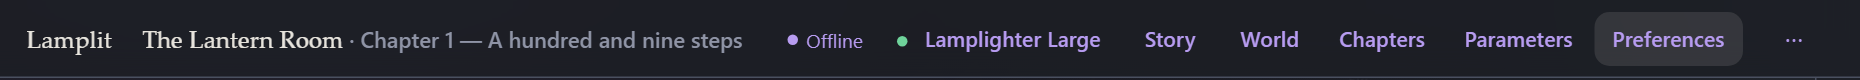
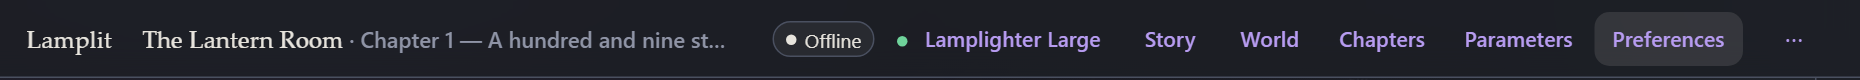
A status that does not read as a menu item, and a title that says it was cut
Offline was `--li-accent`: the colour of Story, World, Chapters, Parameters,
Preferences and the model name beside them, so the one thing on the bar saying
something is wrong looked like a seventh way in. It is a chip now — the ink the
rest of the app is written in, a box around it, a tint inside it — which is calm
the way the state is calm and a different kind of object from a row of text
buttons at a glance. Refused is the same chip in `--li-danger`, so the two states
that want something of the reader are one family and only the colour differs. The
third state, saving, keeps the border transparent, so nothing moves when one
becomes another.

A long title stopped mid-word rather than in an ellipsis, and the reason was two
layers deep. Material gives every button `flex-shrink: 0`, so `.here` kept its
full width whatever the bar had left and `.identity` clipped it with an
`overflow: hidden` that has no ellipsis to give. Letting the button shrink moves
the clipping inside it — and there Material's own `.mdc-button__label`, a flex
item with an automatic minimum width, cannot shrink either while the label will
not wrap. So the `text-overflow` two levels down never had a width to work
against.

`.li-truncates` is that span given a minimum of zero and the truncation itself:
the one place the app reaches into Material's button, because there is no token
for it. The model button wears it too — it caps at 15rem and had been clipping a
[…]

Changed region(s): [[0.3742, 0.425, 0.4677, 0.6], [0.4054, 0.675, 0.4677, 0.725], [0.4054, 0.25, 0.4677, 0.3]]

diff --git a/e2e/specs/top-bar.spec.ts b/e2e/specs/top-bar.spec.ts
@@ -1,0 +1,92 @@
+import { openPreferences } from './helpers';
+import { expect, test } from './fixtures';
+
+/**
+ * The bar when it runs out of room, and the one time it has something to say.
+ *
+ * Both of these are measurements rather than pictures. Whether a long title
+ * ends in an ellipsis or stops mid-word is a question of which element the
+ * overflow happens on, and whether the offline indicator reads as a status or
+ * as a seventh button is a question of what is drawn round it — so those are
+ * what is asked here, off the rendered page.
+ */
+
+/** The answer the server would give if 0.2.0 had been published. */
+const NEWER = {
+  ok: true,
+  enabled: true,
+  checked: true,
+  version: '0.0.0',
+  latest: null,
+  newer: [
+    {
+      tag: 'v0.2.0',
+      version: '0.2.0',
+      name: '0.2.0 — the second one',
+      publishedAt: '2026-04-02T09:00:00.000Z',
+      body: 'A line about what changed.',
+      url: 'https://example.invalid/releases/v0.2.0',
+      assets: [],
+    },
+  ],
+  releases: [] as unknown[],
+};
+
+test('a title too long for the bar ends in an ellipsis, not mid-word', async ({ page, app }) => {
+  // The width the documentation screenshots are taken at, where this title
+  // fits until the update pill appears and takes the room it was using.
+  await page.setViewportSize({ width: 1240, height: 800 });
+  await page.route('**/api/updates', (route) => route.fulfill({ json: NEWER }));
+  await app.open({
+    title: 'The Lantern Room and the Winter It Was Kept Through',
+    chapterTitle: 'A hundred and nine steps',
+  });
+  await expect(page.getByRole('button', { name: /available$/ })).toBeVisible();
+
+  const overflow = await page.locator('li-top-bar .here .label').evaluate((label) => {
+    const identity = label.closest('.identity') as HTMLElement;
+    return {
+      label: label.scrollWidth - label.clientWidth,
+      identity: identity.scrollWidth - identity.clientWidth,
+    };
+  });
+
+  // There is more title than there is bar...
+  expect(overflow.label).toBeGreaterThan(0);
+  // ...and what hides the rest of it is the ellipsis on the label rather than
+  // the hard edge of the box around it, which has nothing to hide.
+  expect(overflow.identity).toBeLessThanOrEqual(1);
+});
+
+test('offline is drawn as a status, not as a seventh button', async ({ page, app }) => {
+  await app.open();
+
+  // The server stops taking documents. Nothing is lost — the session has it
+  // all in memory — and the indicator is the only thing that says so.
+  await page.route('**/api/docs/**', (route) => route.abort('failed'));
+  await openPreferences(page);
+  await page.getByRole('switch', { name: 'Show token counts' }).click();
+  await page.keyboard.press('Escape');
+
+  const offline = page.getByRole('button', { name: 'Offline' });
+  await expect(offline).toBeVisible({ timeout: 20_000 });
+
+  const drawn = (locator: ReturnType<typeof page.locator>) =>
+    locator.evaluate((element) => {
+      const style = getComputedStyle(element);
+      return {
+        colour: style.color,
+        border: style.borderTopStyle === 'none' ? 'none' : style.borderTopWidth,
+        fill: style.backgroundColor,
+      };
+    });
+
+  const status = await drawn(offline);
+  // One of the six named buttons; all six are the same accent text.
+  const button = await drawn(page.getByRole('button', { name: 'Story', exact: true }));
+
+  expect(status.colour).not.toBe(button.colour);
+  expect(button.border).toBe('none');
+  expect(status.border).toBe('1px');
+  expect(status.fill).not.toBe('rgba(0, 0, 0, 0)');
+});

diff --git a/app/src/app/shared/save-status.ts b/app/src/app/shared/save-status.ts
@@ -40,7 +40,10 @@ import { Persistence } from '../store/persistence';
       align-items: center;
       gap: var(--li-space-xs);
       padding: var(--li-space-3xs) var(--li-space-sm);
-      border: 0;
+      /* Drawn by the two states that want something of the reader and
+         transparent in the third, so that nothing shifts when one becomes
+         another. */
+      border: 1px solid transparent;
       border-radius: var(--li-radius-pill);
       background: none;
       font: inherit;
@@ -49,23 +52,37 @@ import { Persistence } from '../store/persistence';
       cursor: default;
     }
 
+    /* Both states that want something of the reader are chips — a box round
+       them and a tint inside it — so that the shape says status before the
+       colour has to. Neither of them is the accent, and offline is the reason
+       why: the six named buttons along the bar are accent text, and a seventh
+       piece of accent text reads as a seventh way in rather than as the one
+       thing on the bar saying something is wrong.
+
+       Offline is the ink the rest of the app is written in. Nothing is lost
+       and nothing is on fire; the box is what marks it out. */
     .status.offline {
-      color: var(--li-accent);
+      color: var(--li-ink);
+      border-color: var(--li-border);
+      background: color-mix(in srgb, var(--li-ink) 6%, var(--li-surface));
       cursor: pointer;
     }
 
     .status.offline:hover {
-      background: color-mix(in srgb, var(--li-accent) 12%, transparent);
+      background: color-mix(in srgb, var(--li-ink) 12%, var(--li-surface));
     }
 
-    /* A refusal will not clear itself the way a missing server might. */
+    /* A refusal will not clear itself the way a missing server might: the same
+       chip, in the colour that says a decision is wanted. */
     .status.refused {
       color: var(--li-danger);
+      border-color: color-mix(in srgb, var(--li-danger) 45%, var(--li-border));
+      background: color-mix(in srgb, var(--li-danger) 10%, var(--li-surface));
       cursor: pointer;
     }
 
     .status.refused:hover {
-      background: color-mix(in srgb, var(--li-danger) 12%, transparent);
+      background: color-mix(in srgb, var(--li-danger) 18%, var(--li-surface));
     }
 
     .dot {

diff --git a/app/src/app/shared/top-bar.ts b/app/src/app/shared/top-bar.ts
@@ -34,7 +34,7 @@ import { SaveStatusIndicator } from './save-status';
         <!-- The one thing in the bar that says where you are. On a phone there
              is no room for it to say it, so it says what this is instead and
              the menu it opens does the rest. -->
-        <button matButton class="here" [matMenuTriggerFor]="storiesMenu">
+        <button matButton class="here li-truncates" [matMenuTriggerFor]="storiesMenu">
           @if (layout.phone()) {
             <span class="mark">Lamplit</span>
           } @else {
@@ -86,7 +86,7 @@ import { SaveStatusIndicator } from './save-status';
 
           <button
             matButton
-            class="model"
+            class="model li-truncates"
             [class.unset]="!settings.isConnected()"
             (click)="dialogs.openConnection()"
             [matTooltip]="connectionTooltip()"
@@ -182,11 +182,18 @@ import { SaveStatusIndicator } from './save-status';
     }
 
     /* Material centres a button's label, which would spill it over the
-       wordmark: one flex child, started at the left edge, clipped here. */
+       wordmark: one flex child, started at the left edge, clipped here.
+
+       And Material gives every button a flex-shrink of nought, which is half
+       of why a long title used to stop mid-word: the button kept its full width
+       whatever the bar had left, and the identity around it cut the overflow
+       off with a hard edge, having no ellipsis to give. Letting the button give
+       up width is this half; li-truncates, in styles.scss, is the other. */
     .here {
       display: flex;
       justify-content: flex-start;
       overflow: hidden;
+      flex-shrink: 1;
       min-width: 0;
       max-width: 30rem;
     }
@@ -245,11 +252,11 @@ import { SaveStatusIndicator } from './save-status';
       }
     }
 
+    /* Long enough for a name and no longer, because the six named buttons
+       after it are what the bar is for. li-truncates is what ends a longer
+       name in an ellipsis rather than mid-word. */
     .model {
       max-width: 15rem;
-      overflow: hidden;
-      text-overflow: ellipsis;
-      white-space: nowrap;
     }
 
     .model.unset {

diff --git a/app/src/styles.scss b/app/src/styles.scss
@@ -1006,6 +1006,26 @@ input[type='checkbox'] {
   }
 }
 
+// A Material button that has to fit the room there is, rather than the room its
+// label would like.
+//
+// Material wraps whatever is put in a button in a span of its own, and that
+// span is a flex item with an automatic minimum width — which for a label that
+// will not wrap is the whole label. So the span never shrinks, the button never
+// shrinks, and whatever is around it clips the overflow with a hard edge:
+// "…A hundred and nine ste", cut mid-word, with the app's own `text-overflow`
+// two levels down and nothing for it to do. There is no Material token for it,
+// which is why this is a selector rather than a property.
+//
+// Both buttons that wear this are in the top bar, and both are named things
+// that can be long: the story and chapter you are in, and the model answering.
+.li-truncates > .mdc-button__label {
+  min-width: 0;
+  overflow: hidden;
+  text-overflow: ellipsis;
+  white-space: nowrap;
+}
+
 // A two-way choice with room to explain itself: the Narrator / Role-play
 // toggle, shared by the story sheet and the new-story sheet.
 .li-choices {

diff --git a/docs/development.md b/docs/development.md
@@ -168,8 +168,9 @@ A few things are worth knowing before reading it:
   label above a box (`li-field`, or `li-editor-field` where the box holds a paragraph), and the
   frame round the box is one rule in `styles.scss` over `input`, `textarea` and `select` alike.
   How tall a box is, is one of three names — `li-rows-short`, `li-rows-medium`, `li-rows-tall` —
-  put on the box or on anything above it; and every modal opens through `DialogsService`, at one of
-  four widths.
+  put on the box or on anything above it; every modal opens through `DialogsService`, at one of
+  four widths; and a Material button whose label can be longer than the room there is wears
+  `li-truncates`, which is what makes it end in an ellipsis rather than mid-word.
 - **Every media query is a mixin in `app/src/breakpoints.scss`.** The five widths and the three
   things the reader's machine answers are declared there, each with the question it asks; a
   component includes one and writes no threshold of its own. The two widths that TypeScript also
